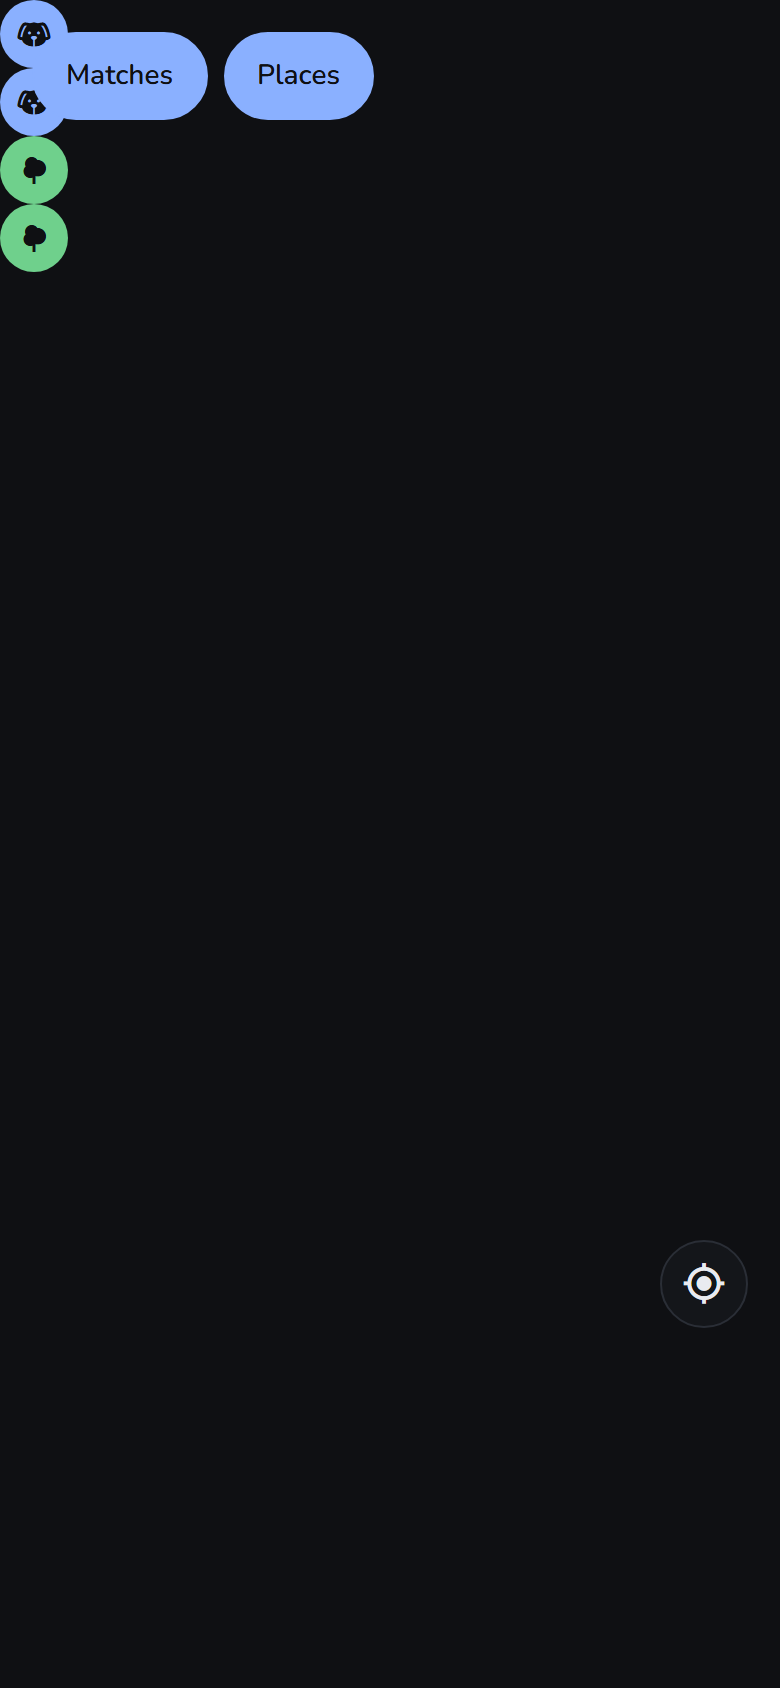
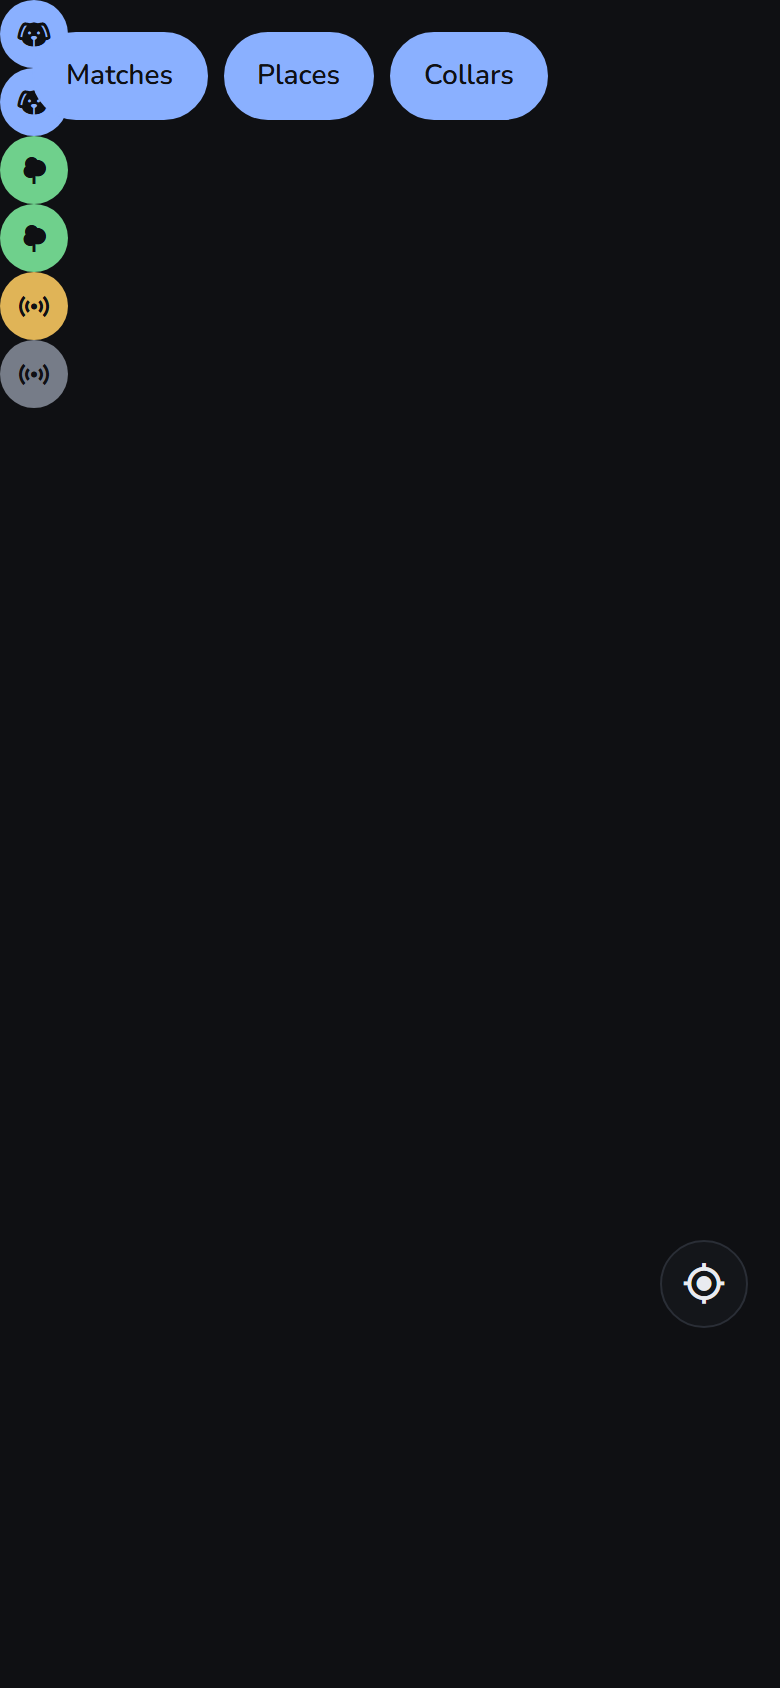
Gallery: refuse location permanently, so the disclosure sheet is not awaited
services/location.js shows its pre-permission disclosure to anybody who has
not answered yet, and awaits the tap. The expo-location web stub answered
'denied' with no canAskAgain, which reads as 'not answered yet', so the map
board sat on 'Finding what's near you' forever and the collars layer could
not be photographed. A permanent refusal is the honest headless answer.

Changed region(s): [[0.4923, 0.0, 0.7077, 0.0924], [0.0, 0.154, 0.0923, 0.2464]]

diff --git a/PetPalsConnectApp/tools/web-stubs/location.js b/PetPalsConnectApp/tools/web-stubs/location.js
@@ -9,9 +9,16 @@
  * Refusing is the honest answer: the browser genuinely has no position here,
  * and it exercises the path that matters most anyway - the pins come from the
  * server's record of where the caller last was, so only the blue dot is lost.
+ *
+ * Refused *permanently* (`canAskAgain: false`), because `services/location.js`
+ * shows its pre-permission disclosure - an Alert awaiting a tap - to anybody
+ * who has not answered yet, and nobody taps in a headless browser. A "denied"
+ * with no `canAskAgain` read as "not answered yet", and the map board sat on
+ * "Finding what's near you…" forever.
  */
-export const requestForegroundPermissionsAsync = async () => ({ status: "denied" });
-export const getForegroundPermissionsAsync = async () => ({ status: "denied" });
+const refused = { status: "denied", granted: false, canAskAgain: false };
+export const requestForegroundPermissionsAsync = async () => refused;
+export const getForegroundPermissionsAsync = async () => refused;
 export const getCurrentPositionAsync = async () => {
   throw new Error("Location is not available in the gallery");
 };
